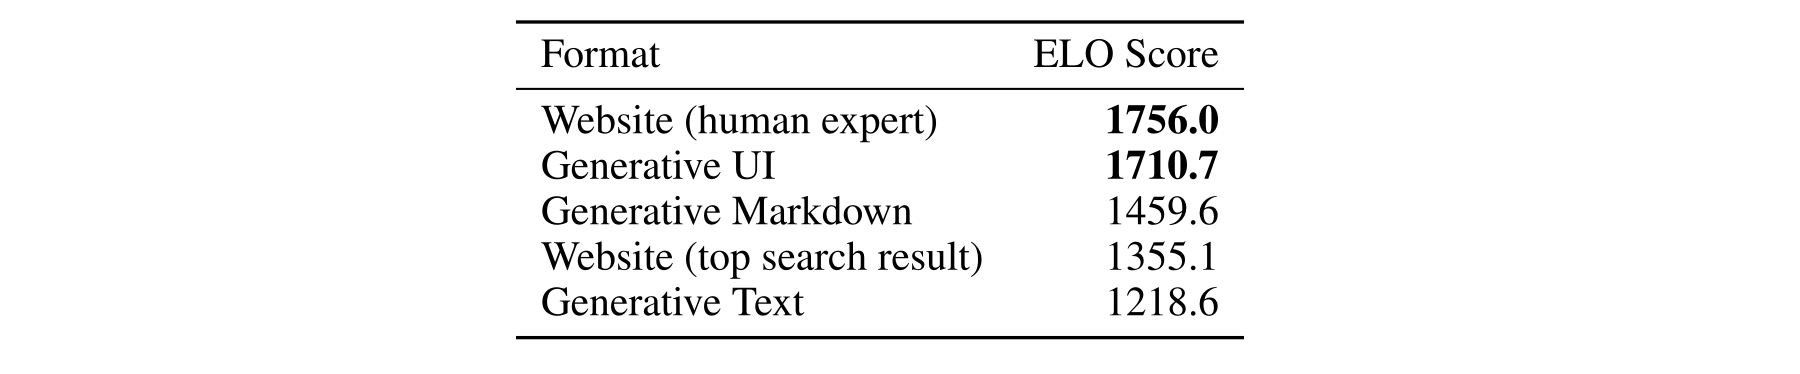
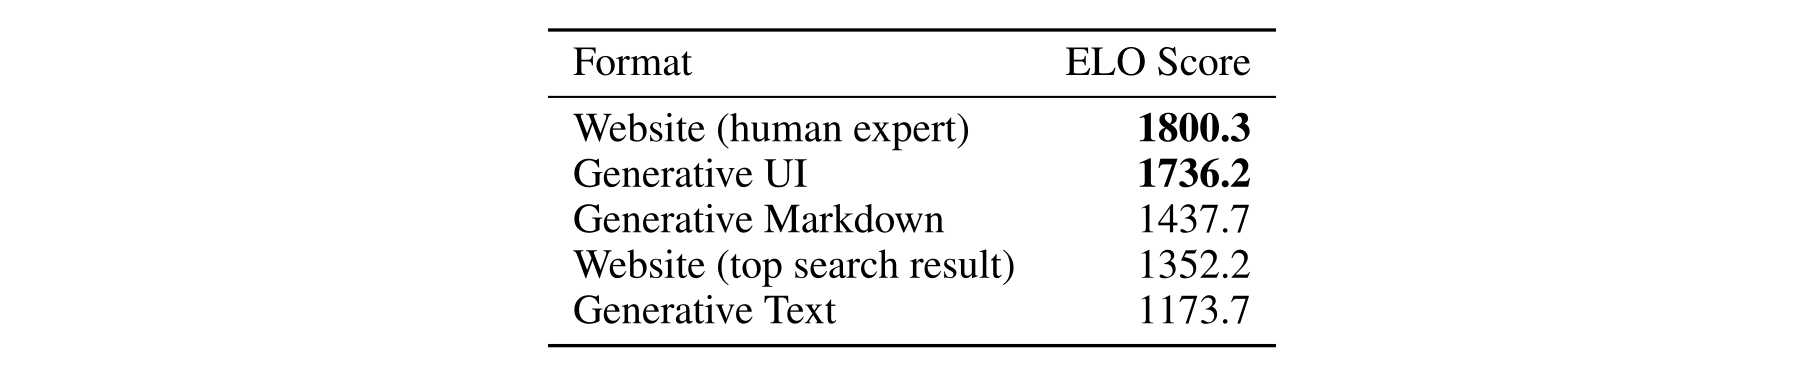
Arxiv version

diff --git a/static/pagen/index.html b/static/pagen/index.html
@@ -1,0 +1,233 @@
+<!DOCTYPE html>
+<html lang="en">
+
+<head>
+    <script async src="https://www.googletagmanager.com/gtag/js?id=G-49MPHKQZRV"></script>
+    <script>
+        window.dataLayer = window.dataLayer || [];
+        function gtag() { dataLayer.push(arguments); }
+        gtag('js', new Date());
+        gtag('config', 'G-49MPHKQZRV');
+    </script>
+    <meta charset="UTF-8">
+    <meta name="viewport" content="width=device-width, initial-scale=1.0">
+    <title>PAGEN Dataset — Generative UI</title>
+    <style>
+        @import url('https://fonts.googleapis.com/css2?family=Inter:wght@400;500;600;700&display=swap');
+
+        *,
+        *::before,
+        *::after {
+            box-sizing: border-box;
+            margin: 0;
+            padding: 0;
+        }
+
+        body {
+            font-family: 'Inter', sans-serif;
+            background: #0f0f1a;
+            color: #e0e0e8;
+            min-height: 100vh;
+        }
+
+        header {
+            background: linear-gradient(135deg, #1a1a2e 0%, #16213e 50%, #0f3460 100%);
+            padding: 2rem 2rem 2.5rem;
+            border-bottom: 1px solid rgba(255, 255, 255, 0.08);
+        }
+
+        .header-top {
+            display: flex;
+            align-items: center;
+            justify-content: space-between;
+            max-width: 900px;
+            margin: 0 auto 1.5rem;
+        }
+
+        .header-links {
+            display: flex;
+            gap: 0.75rem;
+        }
+
+        .btn {
+            display: inline-flex;
+            align-items: center;
+            gap: 0.5rem;
+            padding: 0.5rem 1rem;
+            border-radius: 8px;
+            font-size: 0.875rem;
+            font-weight: 600;
+            text-decoration: none;
+            transition: all 0.2s;
+        }
+
+        .btn-home {
+            background: #4f46e5;
+            color: #fff;
+        }
+
+        .btn-home:hover {
+            background: #6366f1;
+        }
+
+        .btn-github {
+            background: rgba(255, 255, 255, 0.1);
+            color: #c8c8d8;
+            border: 1px solid rgba(255, 255, 255, 0.12);
+        }
+
+        .btn-github:hover {
+            background: rgba(255, 255, 255, 0.18);
+            color: #fff;
+        }
+
+        .header-title {
+            max-width: 900px;
+            margin: 0 auto;
+            text-align: center;
+        }
+
+        .header-title h1 {
+            font-size: 2rem;
+            font-weight: 700;
+            background: linear-gradient(135deg, #a5b4fc, #818cf8, #6366f1);
+            -webkit-background-clip: text;
+            -webkit-text-fill-color: transparent;
+            margin-bottom: 0.5rem;
+        }
+
+        .header-title p {
+            color: #9ca3af;
+            font-size: 1rem;
+            line-height: 1.6;
+        }
+
+        .header-title p a {
+            color: #c7d2fe;
+            text-decoration: underline;
+        }
+
+        .header-title p a:visited {
+            color: #e0e7ff;
+        }
+
+        .header-title p a:hover {
+            color: #fff;
+        }
+
+        main {
+            max-width: 900px;
+            margin: 0 auto;
+            padding: 2.5rem 2rem 4rem;
+        }
+
+        .category-card {
+            display: flex;
+            align-items: center;
+            justify-content: space-between;
+            padding: 1.5rem 2rem;
+            background: linear-gradient(135deg, rgba(99, 102, 241, 0.08), rgba(79, 70, 229, 0.04));
+            border: 1px solid rgba(99, 102, 241, 0.2);
+            border-radius: 12px;
+            text-decoration: none;
+            color: #e0e0e8;
+            transition: all 0.25s;
+            margin-bottom: 1rem;
+        }
+
+        .category-card:hover {
+            background: linear-gradient(135deg, rgba(99, 102, 241, 0.16), rgba(79, 70, 229, 0.10));
+            border-color: rgba(99, 102, 241, 0.4);
+            transform: translateY(-2px);
+            box-shadow: 0 8px 24px rgba(99, 102, 241, 0.15);
+        }
+
+        .category-info h2 {
+            font-size: 1.25rem;
+            font-weight: 600;
+            color: #a5b4fc;
+            margin-bottom: 0.35rem;
+        }
+
+        .category-info p {
+            font-size: 0.875rem;
+            color: #9ca3af;
+        }
+
+        .category-arrow {
+            font-size: 1.5rem;
+            color: #6366f1;
+            transition: transform 0.2s;
+        }
+
+        .category-card:hover .category-arrow {
+            transform: translateX(4px);
+        }
+
+        .badge {
+            display: inline-block;
+            background: rgba(99, 102, 241, 0.2);
+            color: #a5b4fc;
+            font-size: 0.75rem;
+            font-weight: 600;
+            padding: 0.2rem 0.6rem;
+            border-radius: 20px;
+            margin-left: 0.75rem;
+            vertical-align: middle;
+        }
+
+        /* SVG icons */
+        .icon {
+            width: 20px;
+            height: 20px;
+            flex-shrink: 0;
+        }
+    </style>
+</head>
+
+<body>
+    <header>
+        <div class="header-top">
+            <div class="header-links">
+                <a href="../../index.html" class="btn btn-home">
+                    <svg class="icon" viewBox="0 0 20 20" fill="currentColor">
+                        <path
+                            d="M10.707 2.293a1 1 0 00-1.414 0l-7 7a1 1 0 001.414 1.414L4 10.414V17a1 1 0 001 1h2a1 1 0 001-1v-2a1 1 0 011-1h2a1 1 0 011 1v2a1 1 0 001 1h2a1 1 0 001-1v-6.586l.293.293a1 1 0 001.414-1.414l-7-7z" />
+                    </svg>
+                    Project Page
+                </a>
+            </div>
+            <a href="https://github.com/GenerativeUI/GenerativeUI.github.io/tree/main/static/pagen"
+                class="btn btn-github" target="_blank">
+                <svg class="icon" viewBox="0 0 16 16" fill="currentColor">
+                    <path
+                        d="M8 0C3.58 0 0 3.58 0 8c0 3.54 2.29 6.53 5.47 7.59.4.07.55-.17.55-.38 0-.19-.01-.82-.01-1.49-2.01.37-2.53-.49-2.69-.94-.09-.23-.48-.94-.82-1.13-.28-.15-.68-.52-.01-.53.63-.01 1.08.58 1.23.82.72 1.21 1.87.87 2.33.66.07-.52.28-.87.51-1.07-1.78-.2-3.64-.89-3.64-3.95 0-.87.31-1.59.82-2.15-.08-.2-.36-1.02.08-2.12 0 0 .67-.21 2.2.82.64-.18 1.32-.27 2-.27.68 0 1.36.09 2 .27 1.53-1.04 2.2-.82 2.2-.82.44 1.1.16 1.92.08 2.12.51.56.82 1.27.82 2.15 0 3.07-1.87 3.75-3.65 3.95.29.25.54.73.54 1.48 0 1.07-.01 1.93-.01 2.2 0 .21.15.46.55.38A8.013 8.013 0 0016 8c0-4.42-3.58-8-8-8z" />
+                </svg>
+                Browse on GitHub
+            </a>
+        </div>
+        <div class="header-title">
+            <h1>PAGEN Dataset</h1>
+            <p>A dataset of expert-crafted results to aid in evaluating Generative UI implementations. See <a
+                    href="https://arxiv.org/pdf/2604.09577" target="_blank">paper</a> for details.</p>
+        </div>
+    </header>
+
+    <main>
+        <a href="category1_lmsys/index.html" class="category-card">
+            <div class="category-info">
+                <h2>Category 1 — LMSYS <span class="badge">92 topics</span></h2>
+            </div>
+            <span class="category-arrow">→</span>
+        </a>
+
+        <a href="category2_custom/index.html" class="category-card">
+            <div class="category-info">
+                <h2>Category 2 — Custom <span class="badge">100 topics</span></h2>
+            </div>
+            <span class="category-arrow">→</span>
+        </a>
+    </main>
+</body>
+
+</html>

diff --git a/index.html b/index.html
@@ -174,7 +174,7 @@
                 Valerie Nygaard,
               </span>
               <span class="author-block">
-                Srinivasan (Cheenu) Venkatachar,
+                Srinivasan (Cheenu) Venkatachary,
               </span>
               <span class="author-block">
                 James Manyika,
@@ -192,7 +192,7 @@
             <div class="column has-text-centered">
               <div class="publication-links">
                 <span class="link-block">
-                  <a href="static/pdfs/paper.pdf" target="_blank"
+                  <a href="https://arxiv.org/pdf/2604.09577" target="_blank"
                     class="external-link button is-normal is-rounded is-dark">
                     <span class="icon">
                       <i class="fas fa-file-pdf"></i>
@@ -200,16 +200,27 @@
                     <span>Paper</span>
                   </a>
                 </span>
-
-                <!-- <span class="link-block">
-                  <a href="https://arxiv.org/abs/ARXIV_PAPER_ID" target="_blank"
+                <span class="link-block">
+                  <a href="https://arxiv.org/abs/2604.09577" target="_blank"
                     class="external-link button is-normal is-rounded is-dark">
                     <span class="icon">
                       <i class="ai ai-arxiv"></i>
                     </span>
                     <span>arXiv</span>
                   </a>
-                </span> -->
+                </span>
+                <span class="link-block">
+                  <a href="static/pagen/index.html" class="external-link button is-normal is-rounded is-dark">
+                    <span class="icon">
+                      <svg class="svg-inline--fa fa-images fa-w-18" aria-hidden="true" focusable="false" data-prefix="far"
+                        data-icon="images" role="img" xmlns="http://www.w3.org/2000/svg" viewBox="0 0 576 512" data-fa-i2svg="">
+                        <path fill="currentColor"
+                          d="M480 416v16c0 26.51-21.49 48-48 48H48c-26.51 0-48-21.49-48-48V176c0-26.51 21.49-48 48-48h16v48H54a6 6 0 0 0-6 6v244a6 6 0 0 0 6 6h372a6 6 0 0 0 6-6v-10h48zm42-336H150a6 6 0 0 0-6 6v244a6 6 0 0 0 6 6h372a6 6 0 0 0 6-6V86a6 6 0 0 0-6-6zm6-48c26.51 0 48 21.49 48 48v256c0 26.51-21.49 48-48 48H144c-26.51 0-48-21.49-48-48V80c0-26.51 21.49-48 48-48h384zM264 144c0 22.091-17.909 40-40 40s-40-17.909-40-40 17.909-40 40-40 40 17.909 40 40zm-72 96l39.515-39.515c4.686-4.686 12.284-4.686 16.971 0L288 240l103.515-103.515c4.686-4.686 12.284-4.686 16.971 0L480 208v80H192v-48z">
+                        </path>
+                      </svg>
+                    </span>
+                    <span>Pagen</span>
+                  </a>
               </div>
             </div>
           </div>
@@ -235,7 +246,7 @@
               virtually any prompt.  When ignoring generation speed, results generated by our
               implementation are overwhelmingly preferred by humans over the standard LLM markdown
               output. In fact, while the results generated by our implementation are worse than
-              those crafted by human experts, they are at least comparable in 44% of cases. We show
+              those crafted by human experts, they are at least comparable in 50% of cases. We show
               that this ability for robust Generative UI is emergent, with substantial improvements
               from previous models. 
               We also create and release PAGEN, a novel dataset of expert-crafted results to aid in
@@ -461,18 +472,20 @@
                 formats, except human experts. -->
 
                 We evaluate user preference across several different result formats: a custom website crafted for the prompt by a human expert, the top Google Search result for the query, text (LLMoutput without markdown), standard LLM output (in markdown format), and our Generative UI implementation.  We randomly sampled 100 prompts from LMArena and collected pairwise preferences from human raters, sending each result to 2 raters.
-                The following tables show the resulting ELO scores and side-by-side user preference for each of the UI modalities.  Generative UI obtains an ELO score of 1710.7, indicating a strong user preference over all other formats, except human experts. See more details in the paper.
+                The following tables show the resulting ELO scores and side-by-side user preference for each of the UI modalities.
+                Generative UI obtains an ELO score of 1736.2, indicating a strong user preference over all other formats, except human
+                experts. See more details in the paper.
               </p>
             </div>
             <div class="columns is-centered mt-2">
-              <div class="column is-four-fifths">
+              <div class="column is-full">
                 <figure class="image results-table">
                   <img src="static/images/results/table01.png" alt="ELO scores for user preference">
                 </figure>
               </div>
             </div>
             <div class="columns is-centered mt-2">
-              <div class="column is-four-fifths">
+              <div class="column is-full">
                 <figure class="image results-table">
                   <img src="static/images/results/table02.png" alt="Pairwise user preferences wins">
                 </figure>
@@ -485,7 +498,7 @@
               </p>
             </div>            
             <div class="columns is-centered mt-2">
-              <div class="column is-four-fifths">
+              <div class="column is-full">
                 <figure class="image results-table">
                   <img src="static/images/results/table03.png" alt="Model Performance Comparison">
                 </figure>
@@ -497,13 +510,18 @@
     </div>
   </section>
 
-  <!-- ===== BibTeX =====
+  <!-- ===== BibTeX ===== -->
   <section class="section" id="BibTeX">
     <div class="container is-max-desktop content">
       <h2 class="title">BibTeX</h2>
-      <pre><code>BibTex Code Here</code></pre>
+      <pre><code>@article{leviathan2025generativeui,
+  title={Generative UI: LLMs are Effective UI Generators},
+  author={Yaniv Leviathan and Dani Valevski and Matan Kalman and Danny Lumen and Eyal Segalis and Eyal Molad and Shlomi Pasternak and Vishnu Natchu and Valerie Nygaard and Srinivasan Venkatachary and James Manyika and Yossi Matias},
+  journal={arXiv preprint arXiv:2604.09577},
+  year={2025},
+}</code></pre>
     </div>
-  </section> -->
+  </section>
 
   <!-- ===== Acknowledgements ===== -->
   <section class="section" id="Acknowledgements">

diff --git a/static/css/index.css b/static/css/index.css
@@ -144,6 +144,11 @@ body {
    text-decoration: underline;
 }
 
+.results-table {
+  margin-left: 0 !important;
+  margin-right: 0 !important;
+}
+
 .results-table img {
-  width: auto;
+  width: 100%;
 }
